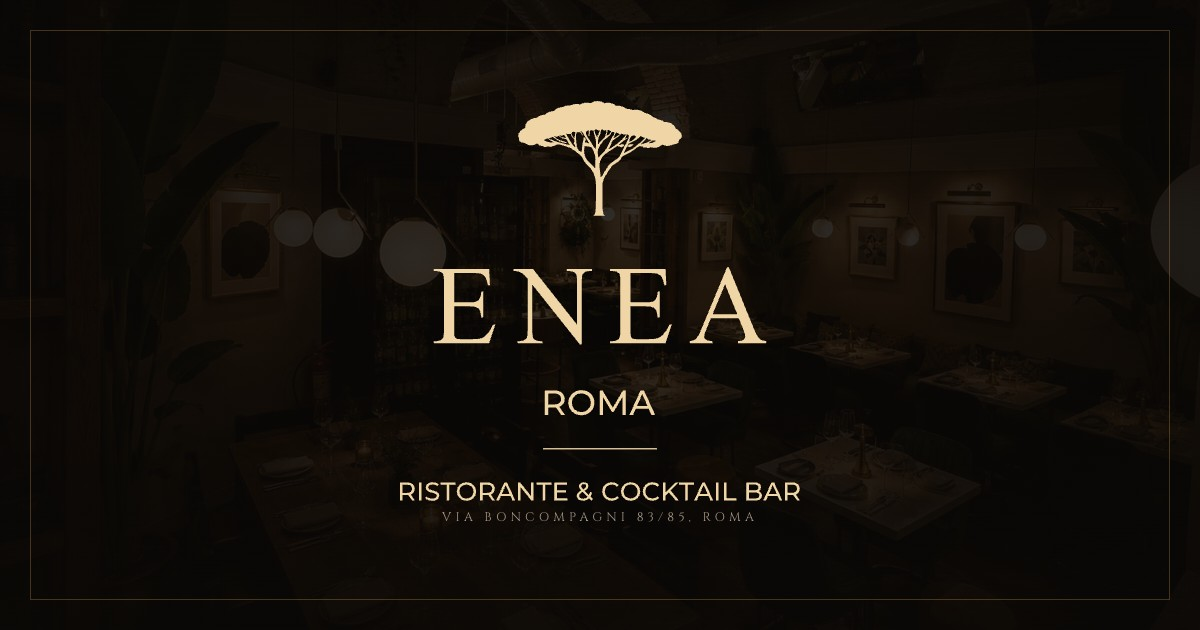
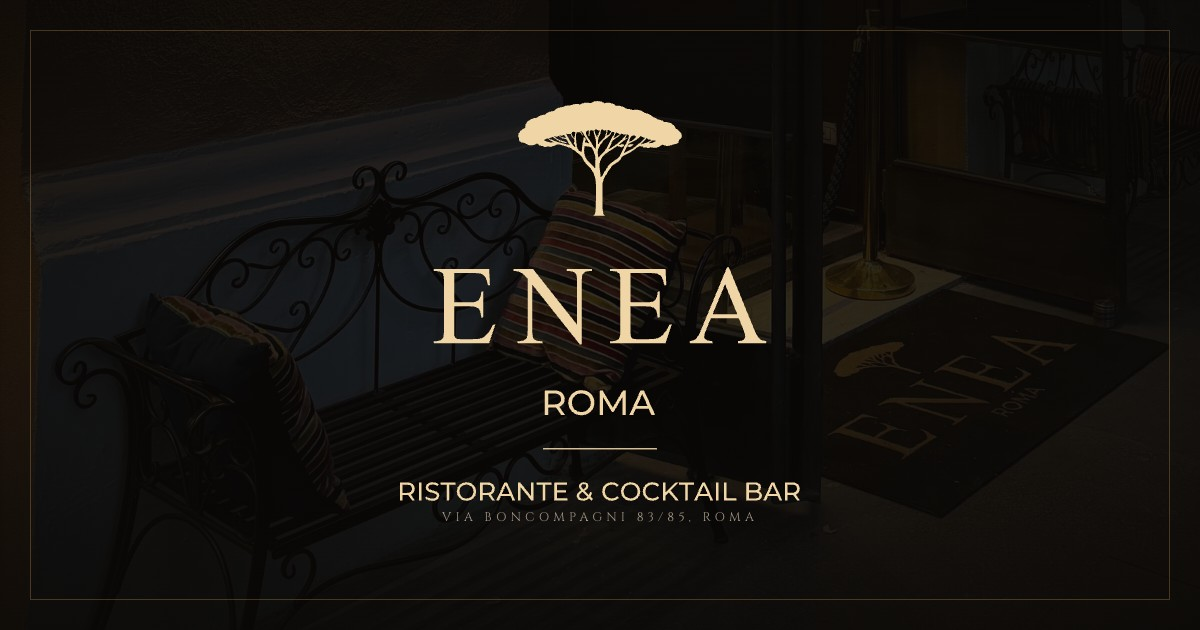
Mail info@ sul sito; apertura e anteprima social con la facciata vera al posto dell'immagine generata con l'IA

diff --git a/src/data/site.ts b/src/data/site.ts
@@ -24,7 +24,7 @@ export const brand = {
 /**
  * Recapiti. Civico «83/85» e telefono come li scrive il titolare sul suo menu
  * stampato (Canva, 24/09/2026) e sul biglietto da visita di riferimento.
- * WhatsApp ed email restano ATTESA.
+ * WhatsApp resta ATTESA.
  */
 export const contatti = {
   via: 'Via Boncompagni', // [MANUALE] footer e foto della facciata
@@ -33,7 +33,9 @@ export const contatti = {
   citta: 'Roma',
   telefono: '+39 06 7227 2403', // [TITOLARE] 24/09/2026
   whatsapp: ATTESA,
-  email: ATTESA,
+  // unica mail pubblica: dal 03/10/2026 Aruba la inoltra alla Gmail del ristorante
+  // (anche prenotazioni@, che passa da qui) e ne tiene una copia
+  email: 'info@enearoma.it',
   /** Link stabile alla scheda Google (CID della scheda "Enea Ristorante", verificato 08/09/2026). */
   mapsUrl: 'https://maps.google.com/?cid=9374966341506913280',
   /** Il segnaposto della scheda Google (24/09/2026); lo stesso centra la mappa di scripts/genera-mappa.py. */
